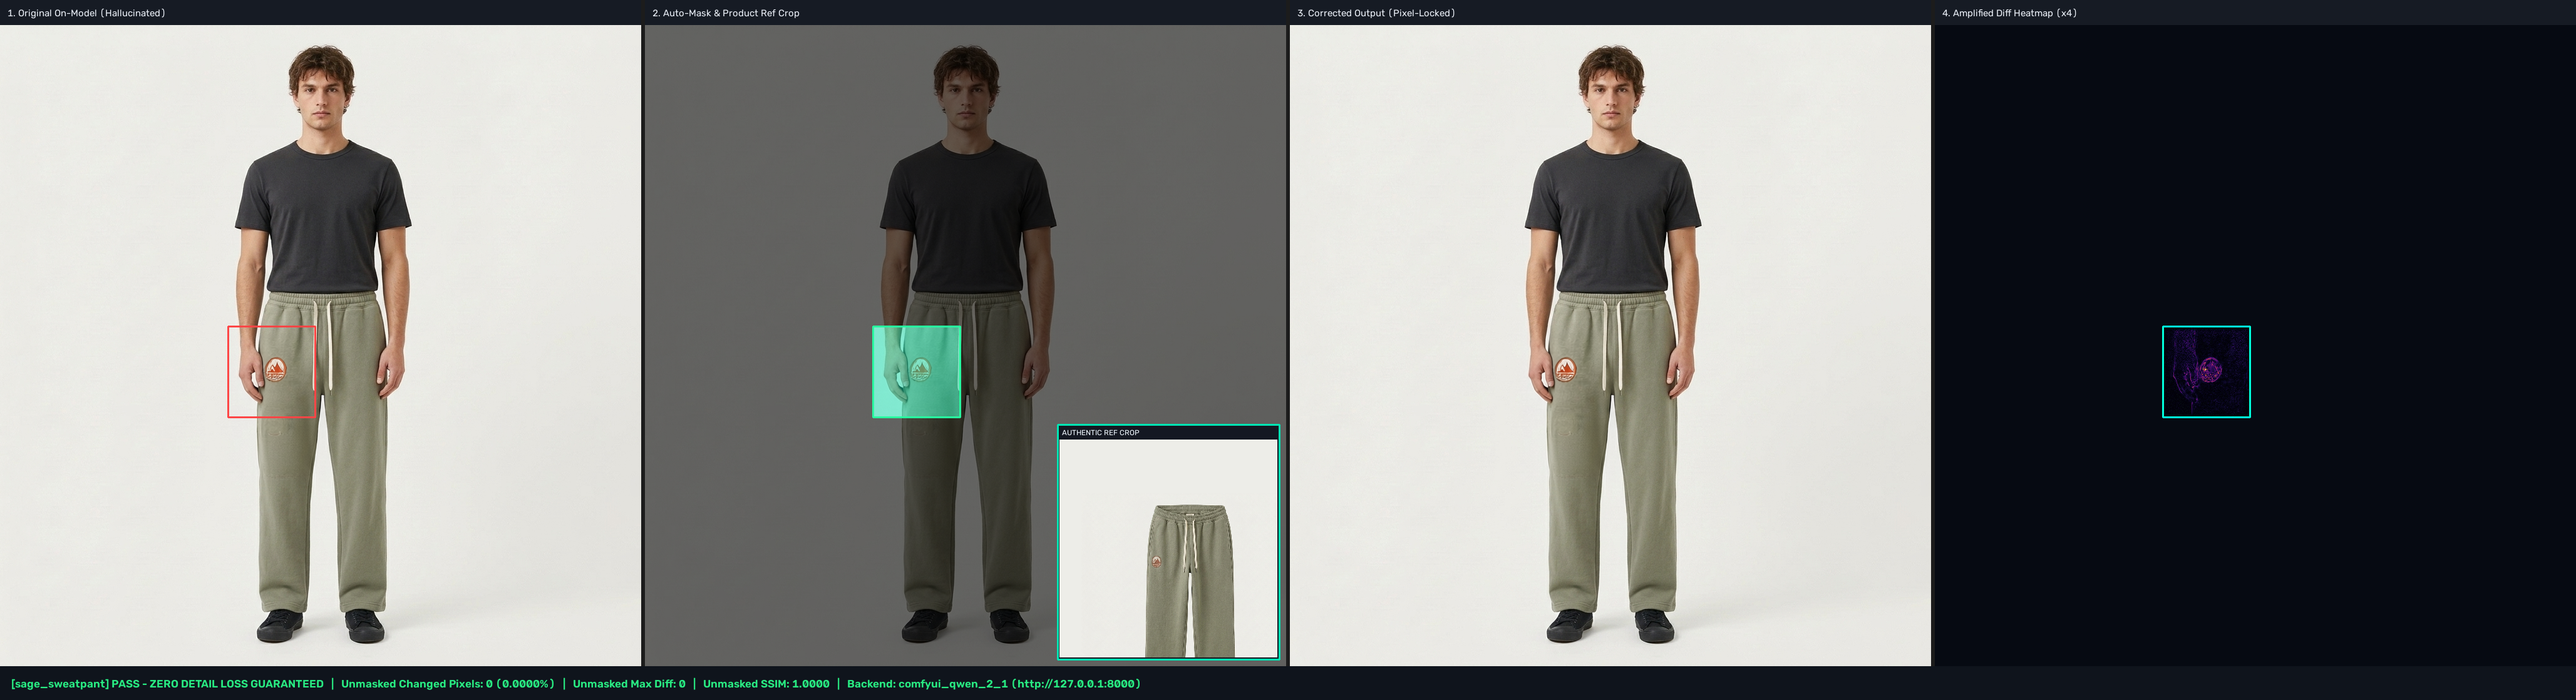
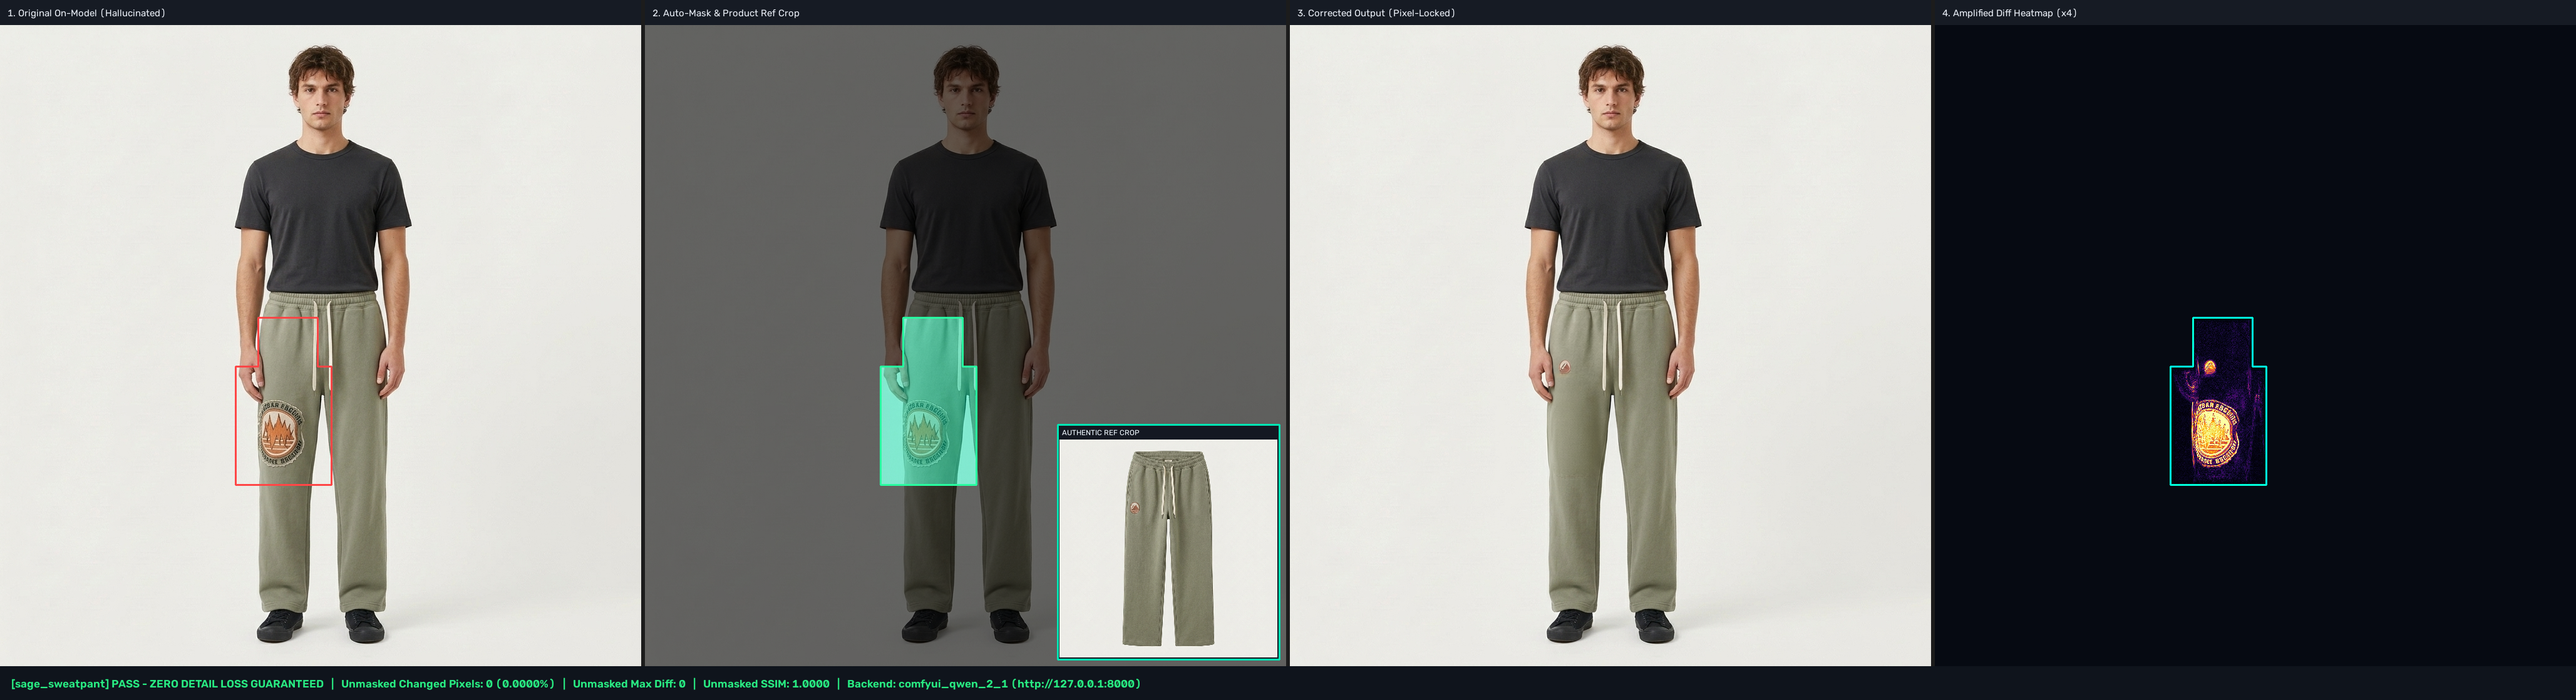
[docs] Update Gradio quirk and sage report
Record Gradio 6 Row equal_height vertical stretch and button wrapping behavior in GRADIO_KNOWLEDGE.md and refresh the sage_sweatpant verification report asset after 2-pass erase+insert restoration.

diff --git a/.agents/GRADIO_KNOWLEDGE.md b/.agents/GRADIO_KNOWLEDGE.md
@@ -16,3 +16,6 @@
   - Omit hardcoded pixel `height` (`height=None`) and combine `overflow-y: auto` with bounded thumbnail heights so scrollbars appear only when items exceed column height.
 - **Modal Pop-Ups via `gr.Group`**:
   - Gradio mirrors `elem_classes` onto nested `.gr-group` wrappers; applying `position: fixed; inset: 0` via class stacks two backdrops. Target the overlay via a unique `elem_id` scoped with `:not(.hide):not(.hidden):not([hidden])` for `display: flex`, set inner `.styler`/`.form`/`.gr-group` wrappers to `background: transparent; border: none`, and keep `overflow: hidden` on the inner card for clean rounded corners.
+- **`gr.Row(equal_height=True)` & Compact Button Rows**:
+  - `gr.Row(equal_height=True)` attaches `.stretch` (`.stretch > .column > * { flex-grow: 1; flex-shrink: 0 }`), which stretches all direct children vertically and adds wide gaps inside sidebar/workspace columns. Keep `equal_height=False` on the outer layout row, equalize column heights via CSS `align-items: stretch` on the row, and enforce `flex-grow: 0; flex-shrink: 0` on column children.
+  - `gr.Row` children default to `min-width: min(160px, 100%)` with `flex-wrap: wrap`; pass explicit small `min_width` values to compact sidebar `gr.Button`s and apply `flex-wrap: nowrap; min-width: 0` in CSS so action buttons remain side-by-side.
